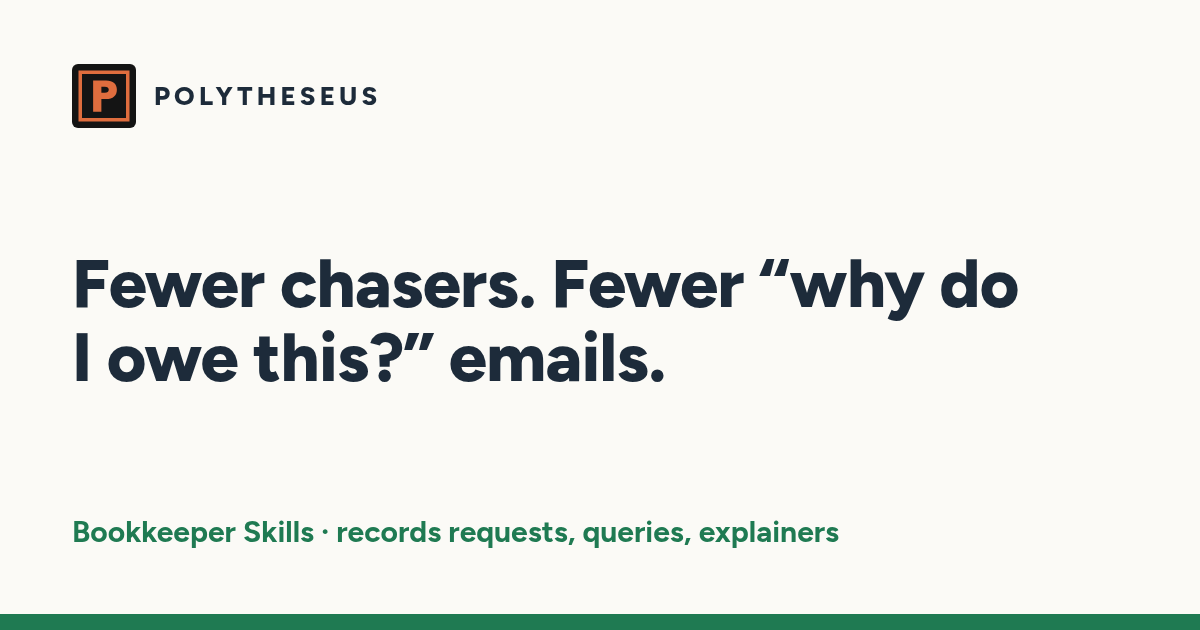
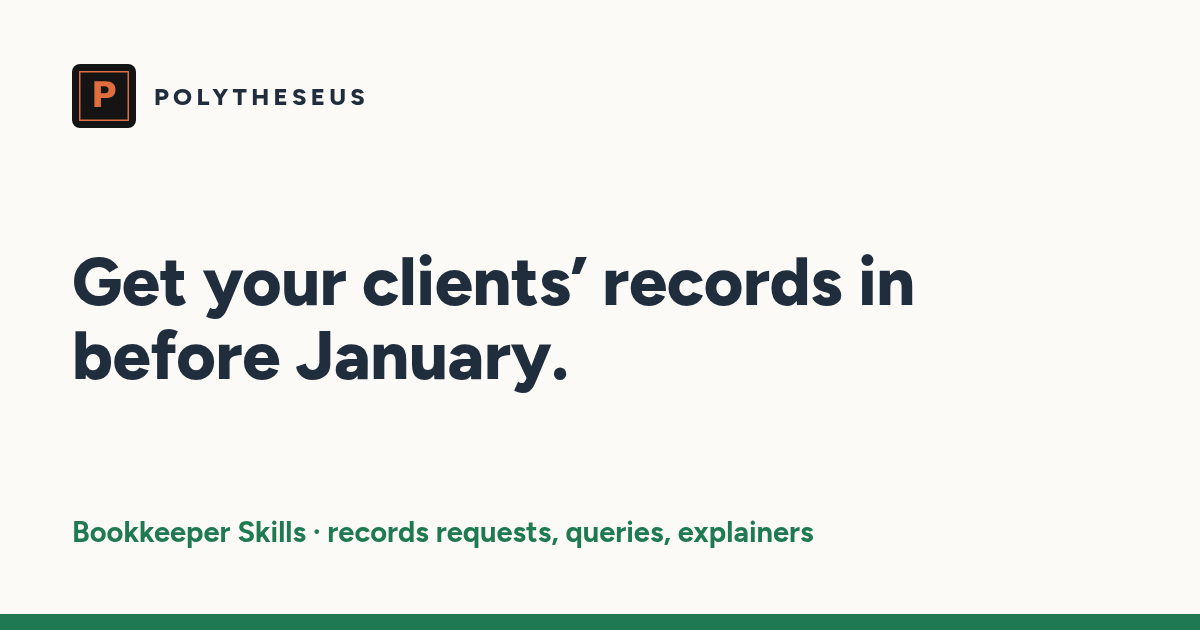
Bookkeeper hub card and share images match the new headlines

Changed region(s): [[0.0617, 0.3921, 0.8633, 0.6333], [0.0617, 0.8143, 0.7092, 0.8746], [0.0617, 0.0905, 0.3083, 0.2111]]

diff --git a/index.html b/index.html
@@ -77,7 +77,7 @@
     </a>
     <a class="pack books" href="/bookkeeper-skills/">
       <p class="who">📒 For bookkeepers</p>
-      <h3>Fewer chasers. Fewer "why do I owe <em>this</em>?" emails.</h3>
+      <h3>Get your clients' records in before January.</h3>
       <ul><li>Dated records requests clients act on</li><li>Suspense-account query lists</li><li>Plain-English tax bill explainers</li></ul>
       <p class="price"><b>Free</b> · Pro £24 · ChatGPT, Gemini, Claude</p>
     </a>
